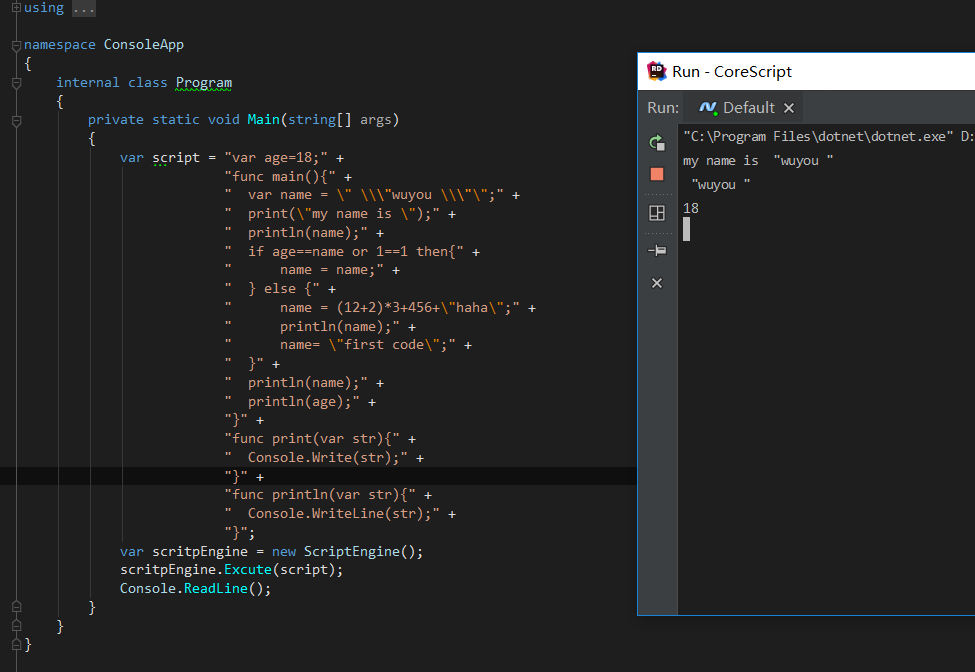
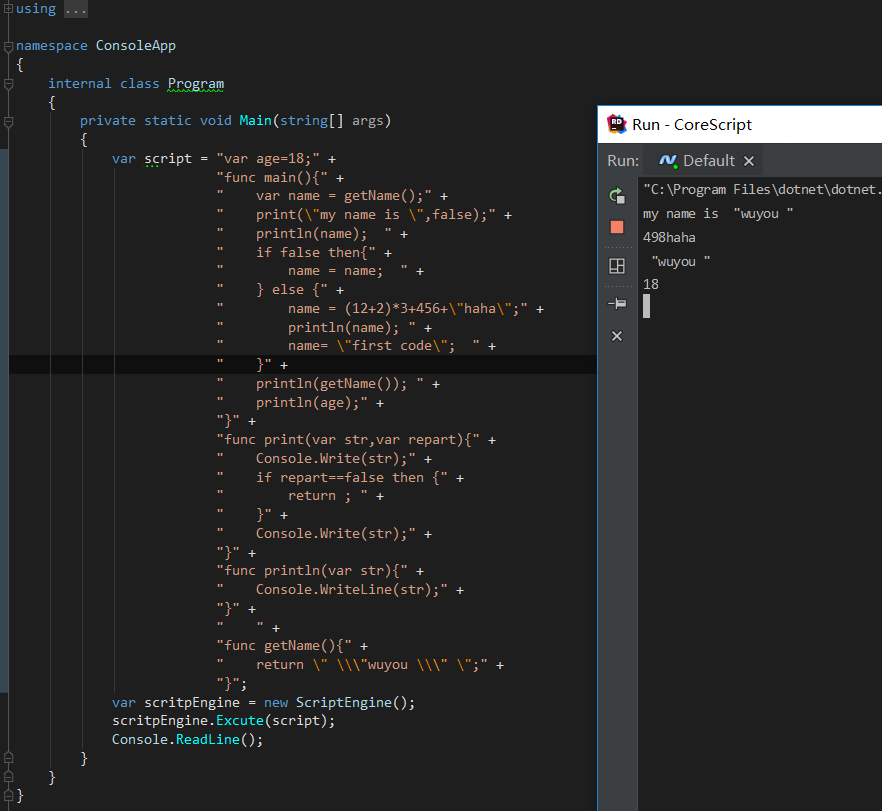
代码整理

Changed region(s): [[0.0, 0.0, 0.5816, 1.0], [0.6429, 0.0625, 1.0, 1.0], [0.5204, 0.8125, 0.551, 0.8438]]

diff --git a/ConsoleApp/Program.cs b/ConsoleApp/Program.cs
@@ -8,7 +8,35 @@ namespace ConsoleApp
     {
         private static void Main(string[] args)
         {
-            var script = File.ReadAllText("script.cj");
+            var script = "var age=18;" +
+                         "func main(){" +
+                         "    var name = getName();" +
+                         "    print(\"my name is \",false);" +
+                         "    println(name);  " +
+                         "    if false then{" +
+                         "        name = name;  " +
+                         "    } else {" +
+                         "        name = (12+2)*3+456+\"haha\";" +
+                         "        println(name); " +
+                         "        name= \"first code\";  " +
+                         "    }" +
+                         "    println(getName()); " +
+                         "    println(age);" +
+                         "}" +
+                         "func print(var str,var repart){" +
+                         "    Console.Write(str);" +
+                         "    if repart==false then {" +
+                         "        return ; " +
+                         "    }" +
+                         "    Console.Write(str);" +
+                         "}" +
+                         "func println(var str){" +
+                         "    Console.WriteLine(str);" +
+                         "}" +
+                         "    " +
+                         "func getName(){" +
+                         "    return \" \\\"wuyou \\\" \";" +
+                         "}";
             var scritpEngine = new ScriptEngine();
             scritpEngine.Excute(script);
             Console.ReadLine();
